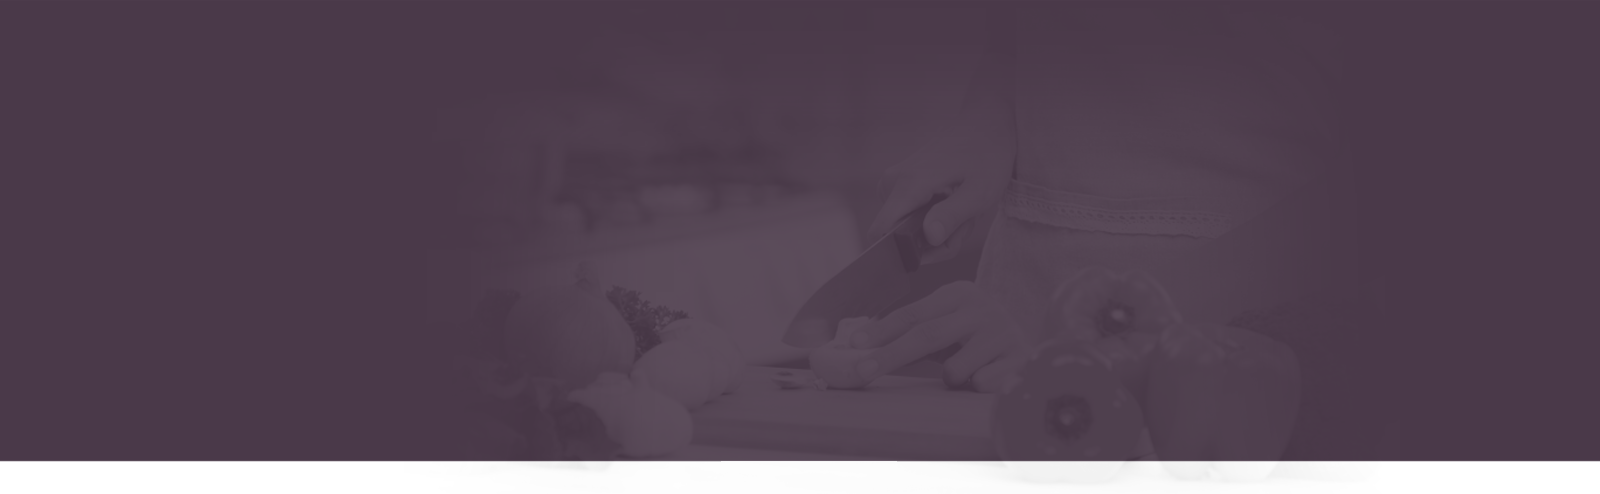
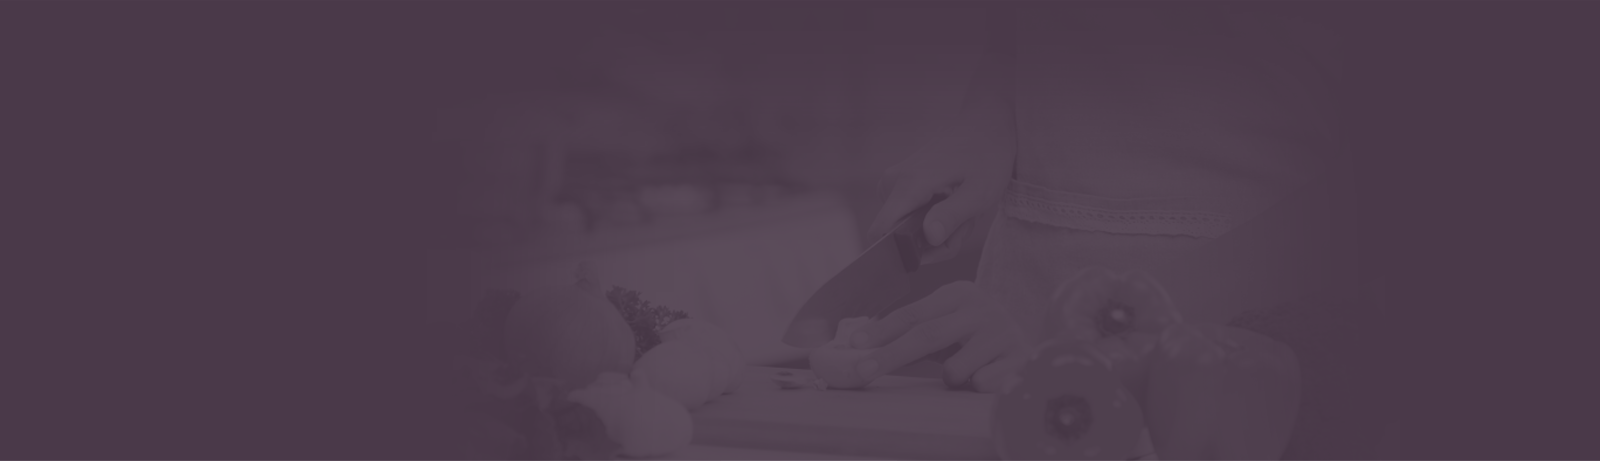
section-profile

Changed region(s): [[0.0, 0.9111, 1.0, 1.0]]

diff --git a/css/style.css b/css/style.css
@@ -316,8 +316,8 @@ html, body{
 	background-position: center center;
 	background-size: cover;
 	text-align: center;
-	padding-top: 80px;
-	padding-bottom: 80px;
+	padding-top: 75px;
+	padding-bottom: 75px;
 	;
 }
 
@@ -331,7 +331,7 @@ html, body{
 	text-decoration: none;
 	font-size: 30px;
 	font-weight: 100;
-	line-height: 2;
+	line-height: 1.6;
 	color: #837782;
 	margin-bottom: 35px;
 }
@@ -339,4 +339,39 @@ html, body{
 .site {
 	font-size: 18px;
 	font-style: italic;
+}
+
+.profile-link:hover {
+	opacity: 0.5;
+}
+
+.profile-link:active {
+	opacity: 0.1;
+}
+
+.profile-link:focus {
+	outline: 2px solid #ff0000;
+}
+
+.ellipsis {
+	width: 55px;
+	font-size: 0;
+	margin: auto;
+}
+
+.circle {
+	display: inline-block;
+	background-color: #837782;
+	border-radius: 50%;
+	margin-right: 10px;
+	width: 11px;
+	height: 11px;
+}
+
+.circle:first-child {
+	background-color: #fff;
+}
+
+.circle:last-child {
+	margin-right: 0;
 }

diff --git a/index.html b/index.html
@@ -113,6 +113,11 @@
 						<p class="site">-<site>Michael Dawson, San Francisco, CA</site>-</p>
 					</blockquote>
 				</a>
+				<ul class="ellipsis">
+					<li class="circle">d</li>
+					<li class="circle">d</li>
+					<li class="circle">d</li>
+				</ul>
 			</div>			
 		</section>
 
